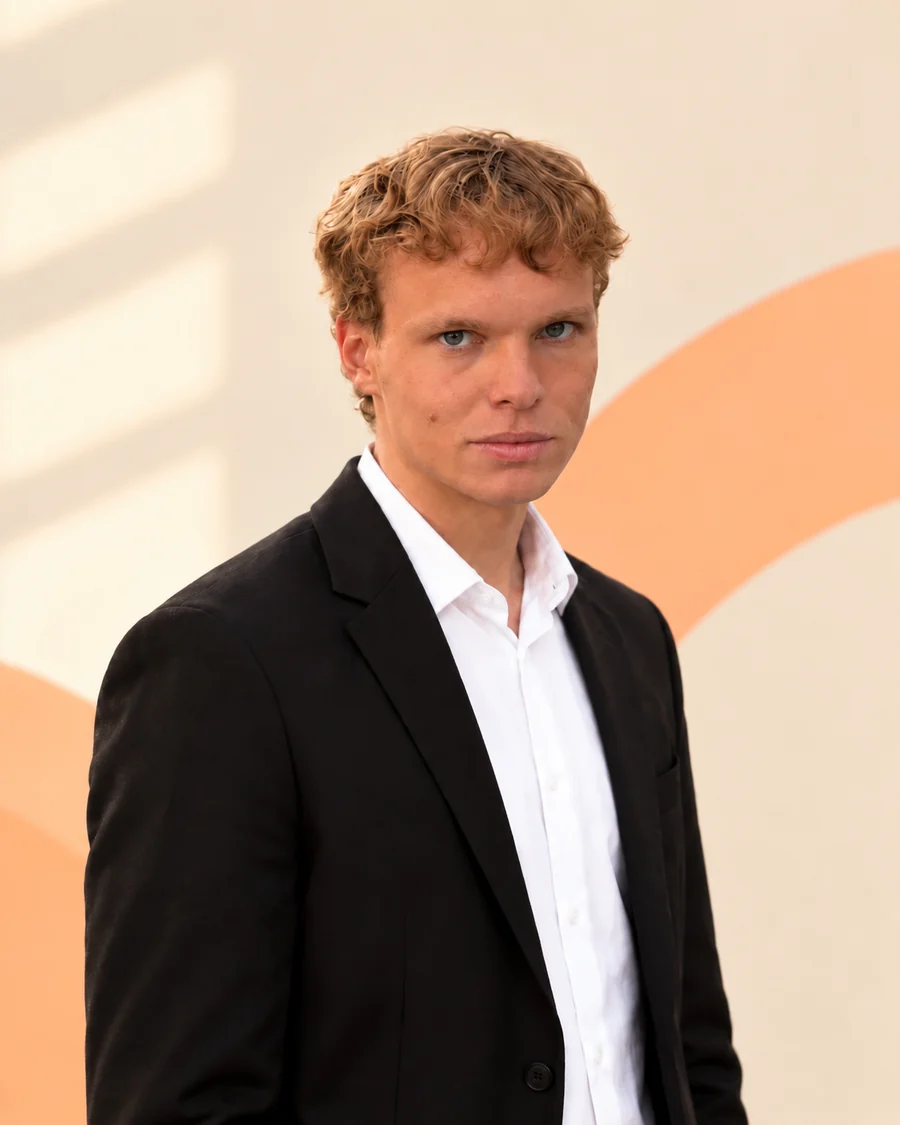
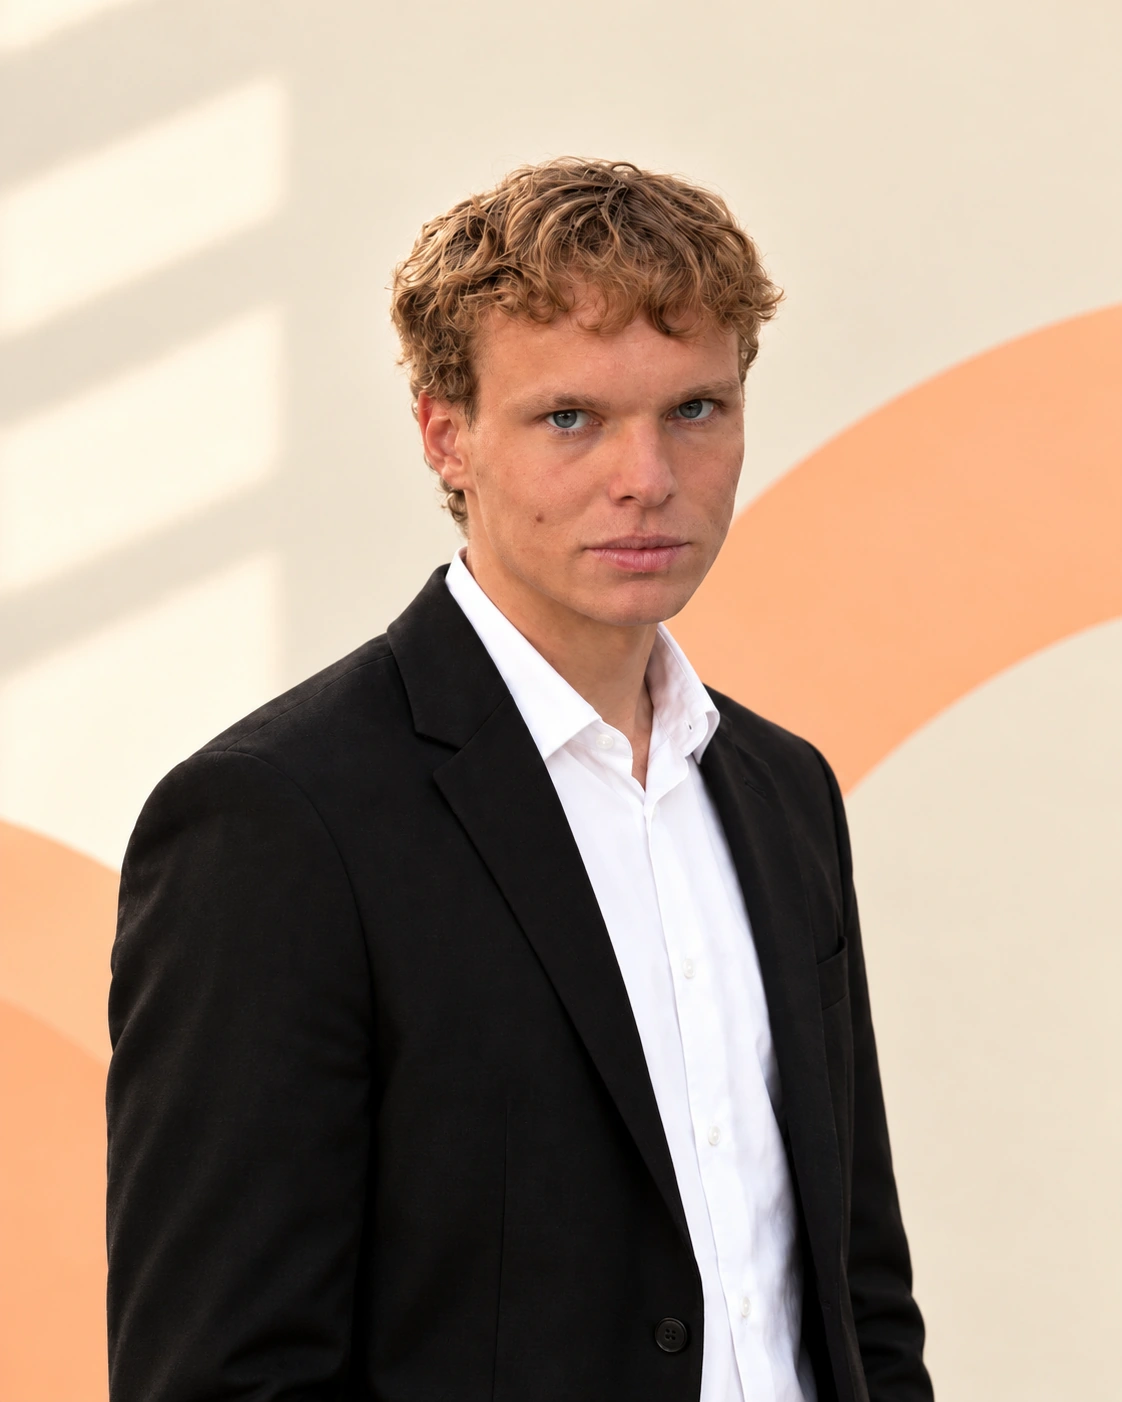
Enhance tutor portraits while preserving original backgrounds

diff --git a/src/entities/teacher/model/catalog.ts b/src/entities/teacher/model/catalog.ts
@@ -26,7 +26,7 @@ export const teachers: readonly Teacher[] = [
       'Подготовка к ОГЭ',
       'Подготовка к ЕГЭ',
     ],
-    photo: '/images/tutor-informatics.webp',
+    photo: '/images/tutor-informatics.webp?v=20260929',
     intro:
       'Имеет опыт работы с учениками как репетитор и куратор: регулярно проводит индивидуальные созвоны, помогает разобраться в сложных темах и выстроить понятный план учёбы. Основное направление — информатика, включая школьную программу, ОГЭ и ЕГЭ. Также помогает с математикой, домашними заданиями и другими школьными предметами.',
     achievements: [
@@ -61,7 +61,7 @@ export const teachers: readonly Teacher[] = [
       'Школьная программа',
       'Домашние задания',
     ],
-    photo: '/images/tutor-english.webp',
+    photo: '/images/tutor-english.webp?v=20260929',
     intro:
       'Имеет опыт работы с детьми дошкольного, младшего и среднего школьного возраста. Проводит индивидуальные и развивающие занятия, адаптирует материалы под возраст, уровень подготовки и особенности ученика. Основные направления — английский язык, история, начальная школа и помощь со школьной программой. В занятиях делает акцент на понятном объяснении, диалоге и спокойной атмосфере, в которой ученик может свободно задавать вопросы и не бояться ошибок.',
     achievements: [
@@ -94,7 +94,7 @@ export const teachers: readonly Teacher[] = [
       'Подготовка к ОГЭ',
       'Подготовка к ЕГЭ',
     ],
-    photo: '/images/tutor-anna.webp',
+    photo: '/images/tutor-anna.webp?v=20260929',
     intro:
       'Учитель общеобразовательной школы с высшим педагогическим образованием по профилям «Русский язык и литература». Проводит занятия для учеников 5–11 классов: помогает разобраться в школьной программе, укрепить знания по русскому языку и литературе, подготовиться к ОГЭ и ЕГЭ. Сама сдала ЕГЭ по русскому языку на 98 баллов.',
     achievements: [
@@ -125,7 +125,7 @@ export const teachers: readonly Teacher[] = [
       'Домашние задания',
       'Подготовка к ОГЭ',
     ],
-    photo: '/images/tutor-artem.webp',
+    photo: '/images/tutor-artem.webp?v=20260929',
     intro:
       'Уверенно знает русский язык и всю школьную программу. Помогает разобраться в правилах, восполнить пробелы и научиться применять теорию на практике — от домашних заданий и текущих тем до подготовки к ОГЭ. В занятиях делает акцент на понятной логике языка, внимательном разборе ошибок и спокойном темпе.',
     achievements: [
@@ -153,7 +153,7 @@ export const teachers: readonly Teacher[] = [
       'Домашние задания',
       'Подготовка к ОГЭ',
     ],
-    photo: '/images/tutor-alexandra-portrait-v2.webp',
+    photo: '/images/tutor-alexandra-portrait-v2.webp?v=20260929',
     intro:
       'Более трёх лет помогает ученикам 5–11 классов разобраться в химии и биологии, повысить успеваемость и подготовиться к ОГЭ. Все её ученики сдали ОГЭ на «5». Объясняет сложные темы понятным языком и делает яркие конспекты, к которым удобно возвращаться при повторении.',
     achievements: [
@@ -184,7 +184,7 @@ export const teachers: readonly Teacher[] = [
       'Домашние задания',
       'Подготовка к ОГЭ',
     ],
-    photo: '/images/tutor-erlan.webp',
+    photo: '/images/tutor-erlan.webp?v=20260929',
     intro:
       'Умеет понятно объяснять сложные темы и находить подход к детям. Помогает устранить пробелы, разобраться с домашними заданиями и системно подготовиться к ОГЭ. В работе сочетает спокойное объяснение, последовательную практику и регулярное закрепление материала.',
     achievements: [
